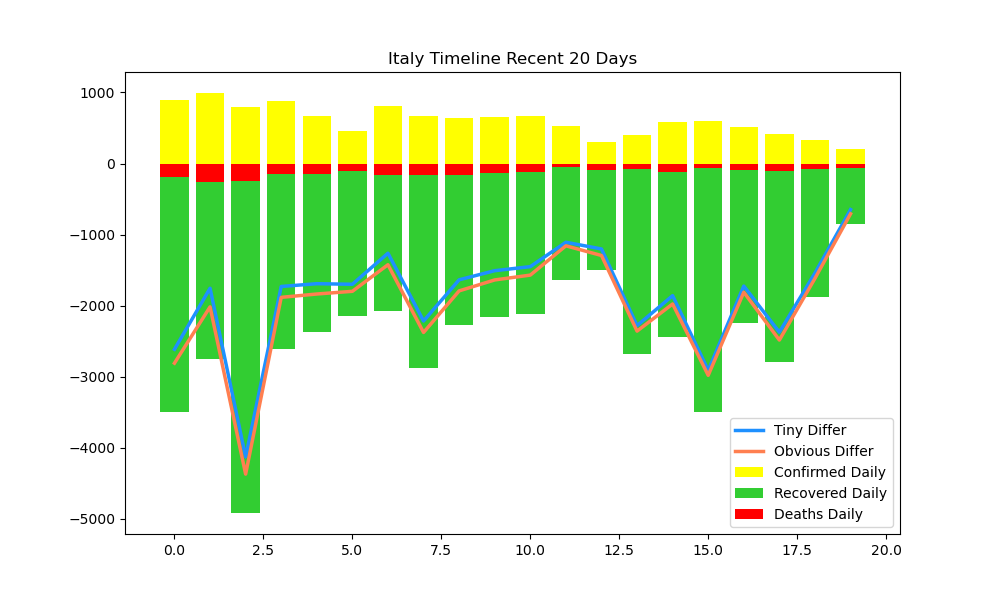
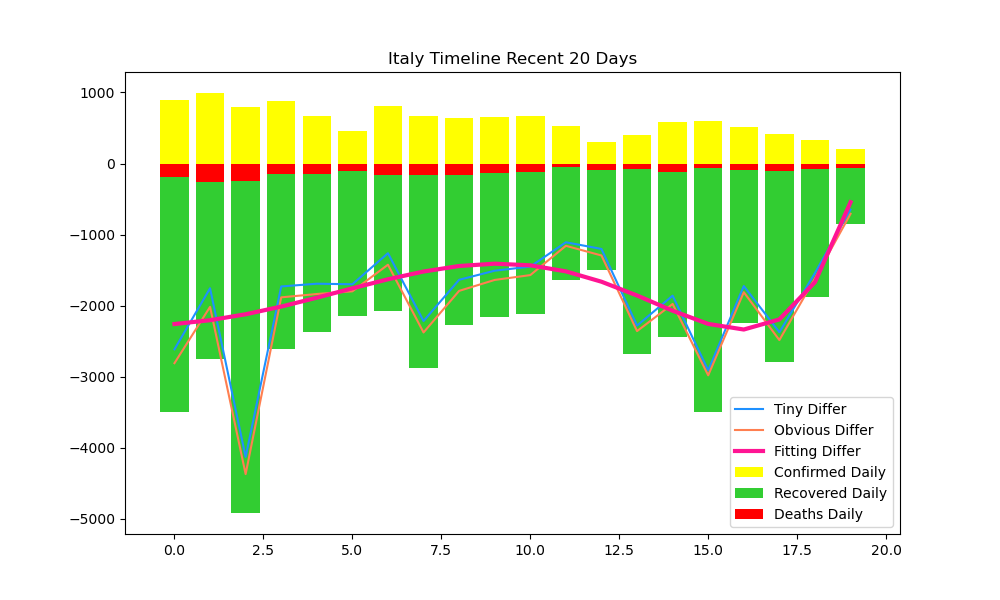
update

diff --git a/cal_overfitting.py b/cal_overfitting.py
@@ -1,0 +1,100 @@
+# !usr/bin/env python
+# -*- coding: utf-8 -*-
+# @Date: 2020/6/11
+# @Author: Koorye
+
+import random
+import numpy as np
+import pandas as pd
+import matplotlib.pyplot as plt
+
+
+def cal_fitting_goodness(x_data, y_data, poly):
+    """ Calculating fitting goodness, return a list of
+    fitting ploy, relevance, regression, residual, total sum of squares. """
+    y_prd = poly(x_data)
+
+    # residual sum of squares
+    residual = sum((y_data - y_prd) ** 2)
+
+    # total sum of squares
+    total = sum((y_data - np.mean(y_data)) ** 2)
+    relevance = 1 - residual / total
+    return relevance
+
+
+def get_fitting_poly(x_data, y_data, poly_level):
+    """ Get fitting poly from x_data and y_data. """
+    array = np.polyfit(x_data, y_data, poly_level)
+    poly = np.poly1d(array)
+    return poly
+
+
+def draw_over_fitting_plot(fitting_list, p_level_start, plot_country):
+    """ Draw several attempts of calculating over fitting rate. """
+    plt.figure(figsize=(10, 6))
+
+    mean_fitting_list = [0 for _ in range(len(fitting_list[0]))]
+
+    for col in range(len(fitting_list[0])):
+        for row in range(len(fitting_list)):
+            mean_fitting_list[col] = mean_fitting_list[col] + fitting_list[row][col]
+    mean_fitting_list = np.array(mean_fitting_list)
+    mean_fitting_list = mean_fitting_list / len(fitting_list)
+
+    for member in fitting_list:
+        x_data = np.array(range(len(member)))
+        x_data = x_data + p_level_start
+        plt.plot(x_data, member)
+
+    x_data = np.array(range(len(mean_fitting_list)))
+    x_data = x_data + p_level_start
+    plt.plot(x_data, mean_fitting_list, linewidth=5, label='Mean')
+    plt.xlabel('P-level')
+    plt.ylabel('Over Fitting Rate')
+    plt.legend()
+    plt.title('Over Fitting Rate with P-level')
+    plt.savefig('img/over_fitting_rate_with_p_level_of_{}.png'.format(plot_country))
+    print('Minimal Over Fitting Level: ', np.argmin(mean_fitting_list) + start_level)
+
+
+if __name__ == '__main__':
+    start_level = 6
+    end_level = 20
+    circle_time = 20
+    country_list = ['Italy', 'US']
+
+    for country in country_list:
+        tiny_differ_data = pd.read_csv('data/tiny_differ_timeline_international_daily.csv', header=None, index_col=0)
+        data_list = tiny_differ_data.loc[country].to_list()
+        x_list = range(len(data_list))
+
+        over_fitting_list = []
+        step = 0
+        while step < circle_time:
+            temp_list = []
+
+            x_train_list = random.sample(x_list, int(len(x_list) * 0.8))
+            x_test_list = list(set(x_list) - set(x_train_list))
+
+            y_train_list, y_test_list = [], []
+            for index in x_train_list:
+                y_train_list.append(data_list[index])
+            for index in x_test_list:
+                y_test_list.append(data_list[index])
+
+            x_train_list = np.array(x_train_list)
+            x_test_list = np.array(x_test_list)
+            y_train_list = np.array(y_train_list)
+            y_test_list = np.array(y_test_list)
+
+            for level in range(start_level, end_level + 1):
+                fitting_poly = get_fitting_poly(x_train_list, y_train_list, level)
+                r_square_train = cal_fitting_goodness(x_train_list, y_train_list, fitting_poly)
+                r_square_test = cal_fitting_goodness(x_test_list, y_test_list, fitting_poly)
+                temp_list.append((1 - r_square_test) / r_square_train)
+            if max(temp_list) < 1.5:
+                over_fitting_list.append(temp_list)
+                step += 1
+
+        draw_over_fitting_plot(over_fitting_list, start_level, country)

diff --git a/draw_poly_fitting_and_cal_goodness.py b/draw_poly_fitting_and_cal_goodness.py
@@ -1,0 +1,73 @@
+# !usr/bin/env python
+# -*- coding: utf-8 -*-
+# @Date: 2020/6/11
+# @Author: Koorye
+
+import numpy as np
+import pandas as pd
+import matplotlib.pyplot as plt
+
+
+def cal_fitting_goodness(x_list, data_list, fitting_poly):
+    """ Calculating fitting goodness, return a list of
+    fitting ploy, relevance, regression, residual, total sum of squares. """
+    y_prd = fitting_poly(x_list)
+
+    # regression sum of squares
+    regression = sum((y_prd - np.mean(data_list)) ** 2)
+
+    # residual sum of squares
+    residual = sum((data_list - y_prd) ** 2)
+
+    # total sum of squares
+    total = sum((data_list - np.mean(data_list)) ** 2)
+    relevance = 1 - residual / total
+    return [fitting_poly, relevance, regression, residual, total]
+
+
+def plot_poly_fitting(data_list, p_level_start, p_level_end, p_level_step, plot_country):
+    """ Draw poly fitting plot from data. """
+    plt.figure(figsize=(10, 6))
+    data_frame = pd.DataFrame(columns=['Fitting Poly', 'Relevance', 'Regression Sum of Squares',
+                                       'Residual Sum of Squares', 'Total Sum of Squares'])
+
+    for p_level in range(p_level_start, p_level_end + 1):
+        x_list = np.array(range(len(data_list)))
+        array = np.polyfit(x_list, data_list, p_level)
+        poly = np.poly1d(array)
+        y_list = poly(x_list)
+
+        data_frame.loc[p_level] = cal_fitting_goodness(x_list, data_list, poly)
+
+        plt.plot(x_list, y_list, label=str(p_level) + ' - term fitting')
+        plt.xlabel('Days')
+        plt.ylabel('People')
+        plt.title('Poly Fitting Analyze of Tiny Inflection Point in {}'.format(plot_country))
+        plt.legend(loc='best')
+
+        if p_level % p_level_step == 0:
+            plt.plot(tiny_differ_list, label='tiny inflection point')
+            plt.savefig('img/poly_fitting_analyze_of_tiny_inflection_point_in{}_from_{}_to_{}.png'
+                        .format(plot_country, p_level - p_level_step + 1, p_level))
+            plt.clf()
+
+    data_frame.to_csv('data/fitting_goodness_of_tiny_inflection_point_in_{}.csv'.format(plot_country))
+    plt.clf()
+    plt.figure(figsize=(10, 6))
+    plt.plot(range(level_start, level_end + 1), data_frame['Relevance'].to_list())
+    plt.xlabel('P-level')
+    plt.ylabel('R-square')
+    plt.title('R-square with P-level')
+    plt.savefig('img/R_square_with_poly_of_{}.png'.format(country))
+
+
+if __name__ == '__main__':
+    country_list = ['Italy', 'US']
+    level_start = 6
+    level_end = 20
+    level_step = 5
+    tiny_differ_data = pd.read_csv('data/tiny_differ_timeline_international_daily.csv', index_col=0)
+
+    for country in country_list:
+        tiny_differ_list = tiny_differ_data.loc[country].to_list()
+        plot_poly_fitting(tiny_differ_list, level_start, level_end, level_step, country)

diff --git a/draw_country_timeline.py b/draw_country_timeline.py
@@ -7,6 +7,13 @@ import pandas as pd
 import matplotlib.pyplot as plt
 import numpy as np
 
+
+def get_fitting_poly(x_data, y_data, level):
+    array = np.polyfit(x_data, y_data, level)
+    poly = np.poly1d(array)
+    return poly
+
+
 if __name__ == '__main__':
     country_list = ['Italy', 'US']
     MAX_LAST_DAYS = 100
@@ -29,6 +36,9 @@ if __name__ == '__main__':
         tiny_differ_list = tiny_differ_data.loc[country].to_list()
         obvious_differ_list = obvious_differ_data.loc[country].to_list()
 
+        poly = get_fitting_poly(range(len(tiny_differ_list)), tiny_differ_list, 12)
+        fitting_list = poly(range(len(tiny_differ_list)))
+
         for last_index in range(DAYS_STEP, MAX_LAST_DAYS + DAYS_STEP, DAYS_STEP):
             plt.figure(figsize=(10, 6))
             plt.bar(range(len(confirmed_increased_list[-last_index:])), confirmed_increased_list[-last_index:],
@@ -40,8 +50,9 @@ if __name__ == '__main__':
                     0 - np.array(deaths_increased_list[-last_index:]),
                     color='red', label='Deaths Daily')
 
-            plt.plot(tiny_differ_list[-last_index:], color='dodgerblue', linewidth='2.5', label='Tiny Differ')
-            plt.plot(obvious_differ_list[-last_index:], color='coral', linewidth='2.5', label='Obvious Differ')
+            plt.plot(tiny_differ_list[-last_index:], color='dodgerblue', linewidth='1.5', label='Tiny Differ')
+            plt.plot(obvious_differ_list[-last_index:], color='coral', linewidth='1.5', label='Obvious Differ')
+            plt.plot(fitting_list[-last_index:], color='deeppink', linewidth='3', label='Fitting Differ')
 
             plt.legend(loc='best')
             plt.title('{} Timeline Recent {} Days'.format(country, last_index))
